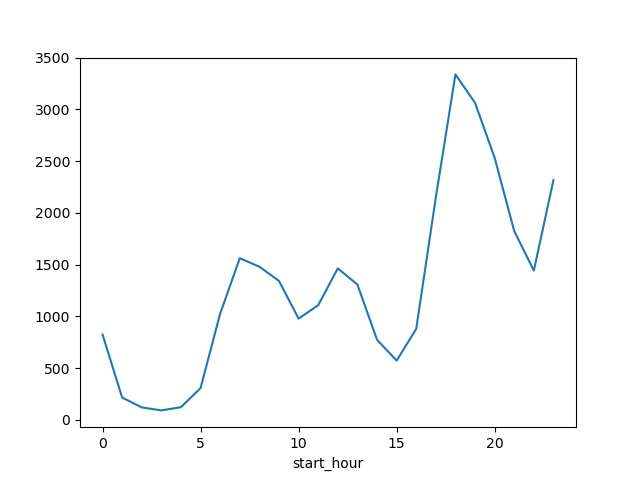
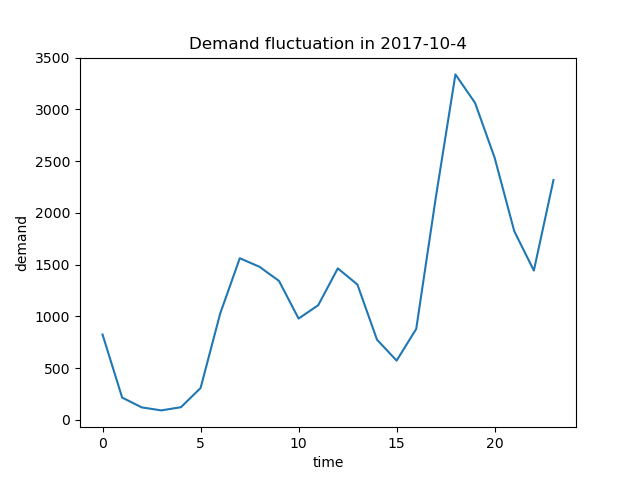
minor change

Changed region(s): [[0.2812, 0.0625, 0.75, 0.125], [0.4688, 0.9375, 0.5625, 1.0], [0.0312, 0.4688, 0.0625, 0.5625]]

diff --git a/get_demand.py b/get_demand.py
@@ -41,6 +41,7 @@ def linear_referencing(locpair):
     y_max = 1.470763
     lon_diff = 0.00269582
     lat_diff = 0.00271293
+
     cell_id = math.floor((locpair[1]-x_min)/lon_diff) + \
         180 * math.floor((y_max-locpair[0])/lat_diff)
     return cell_id
@@ -51,6 +52,7 @@ df['cell_end'] = df.apply(lambda x:linear_referencing((x['lat1'],x['lng1'])),axi
 df = df.drop(columns = ['lng0','lat0','lng1','lat1'])
 
 #--------------------------------------------------------------------------------------------------#
+
 
 #----------------------------------time format transformation--------------------------------------#
 # transform time from absolute seconds to timestamp (in Singapore)
@@ -70,6 +72,7 @@ df['date'] = df['time_start'].dt.date
 df['dayofweek']=df['time_start'].dt.dayofweek
 
 #-------------------------------------------------------------------------------------------------#
+
 
 # output file for visualization of demand fluctuation
 df.to_csv("demand_visualization_data.csv", index = False)

diff --git a/demand_visualization.py b/demand_visualization.py
@@ -13,10 +13,13 @@ def demand_visualization(year, month, day):
            day, int
     output: generate a figure
     '''
-    date = str(datetime.date(2017,10,4))#get date in string
+    date = str(datetime.date(year, month, day))#get date in string
     flow_in_hour = df[df['date']==date].groupby('start_hour')# group trips by hour
     flow_in_hour = flow_in_hour.count()['bike_id']# count trips
     flow_in_hour.plot()
+    plt.xlabel("time")
+    plt.ylabel("demand")
+    plt.title("Demand fluctuation in {}-{}-{}".format(year,month,day))
 
     #save figure
     plt.savefig("demand_fluctuation_on_{}-{}-{}.png".format(year, month, day))
